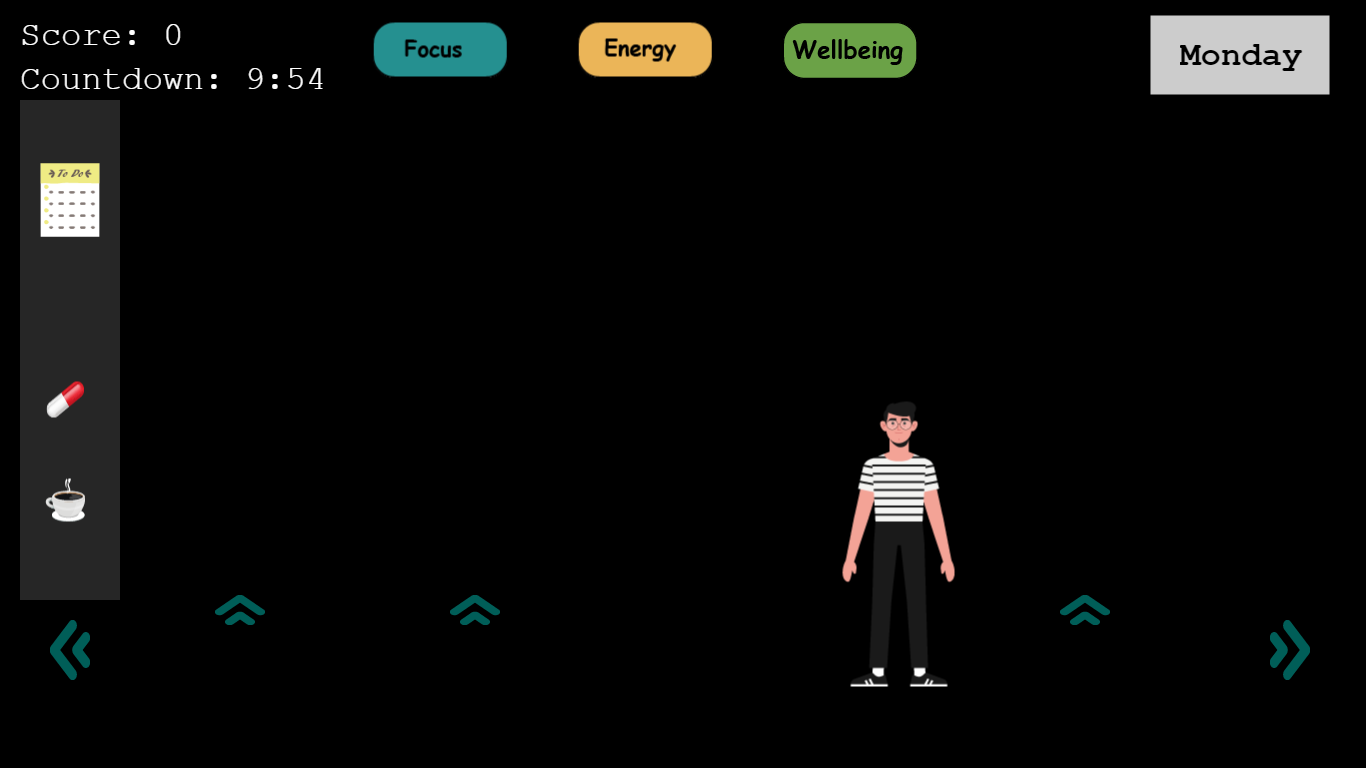
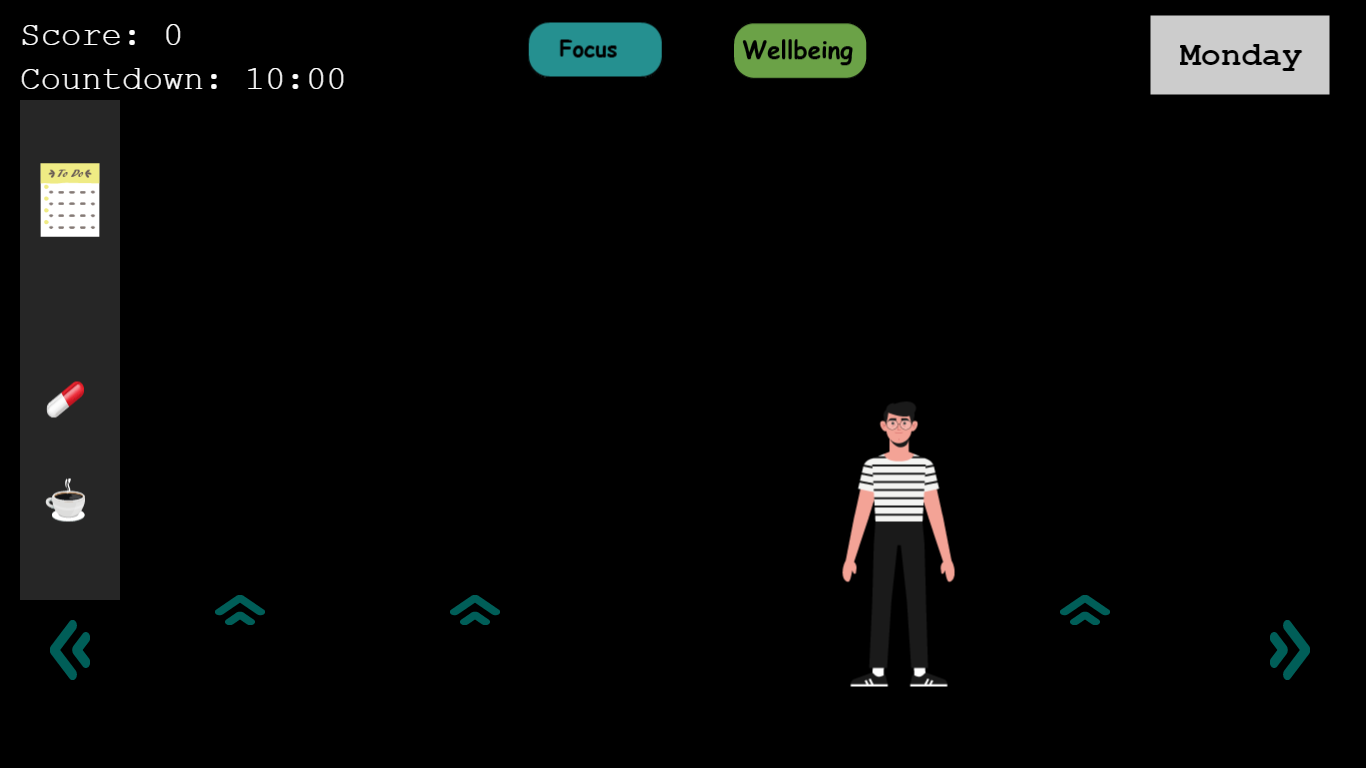
final2

Changed region(s): [[0.2767, 0.0312, 0.6764, 0.125], [0.1845, 0.0938, 0.246, 0.125]]

diff --git a/src/scenes/results.js b/src/scenes/results.js
@@ -10,6 +10,13 @@ var scoreText;
 var scoreAnimation;
 var tween;
 var colour;
+var pokalTween;
+var q;
+var qText1;
+var qText2;
+var fav;
+var fav2;
+var qTexts;
 
 export default class results extends Focus_scene {
   constructor() {
@@ -22,6 +29,7 @@ export default class results extends Focus_scene {
   create() {
     pointer = this.input.activePointer;
     achievements = [];
+    qTexts=[];
     super.create();
     this.add.image(683, 384, "graduation").setDepth(3000);
     this.layer = this.add
@@ -30,6 +38,13 @@ export default class results extends Focus_scene {
       .fillRect(0, 0, 1366, 768)
       .setDepth(3100);
     //this.add.image(300, 384, "pokal").setScale(0.8).setDepth(3200);
+    fav = this.add.image(160, 606, "favicon").setScale(1.5).setDepth(3200).setVisible(false);
+    fav2 = this.add
+      .image(157, 282, "favicon")
+      .setScale(1.5)
+      .setDepth(3200)
+      .setVisible(false);
+
     scoreText = this.add
       .text(320, 20, "Your score: " + sv, {
         fontFamily: "Arial",
@@ -59,6 +74,7 @@ export default class results extends Focus_scene {
     this.generateText(50, 665, "The Golden Battery");
     this.generateQuestionmark(112, 580, 100, 60, 0);
     this.generateQuestionmark(116, 236, 100, 100, 20);
+ 
     
   }
   generateFrame(x, y, width, height, fillStyle = 0x000000) {
@@ -83,20 +99,34 @@ export default class results extends Focus_scene {
   }
 
   generateQuestionmark(x, y, width, height, plus) {
-    this.q = this.add
+    q = this.add
       .graphics()
       .fillStyle(0x303030, 0.8)
       .fillRect(x, y, width, height)
       .lineStyle(4, 0x000000, 1.0)
       .strokeRect(x, y, width, height)
-      .setDepth(3100);
-    this.add
-      .text(x + 37, y+10+plus, "?", {
-        fontFamily: "Arial",
-        fontSize: "40px",
-        color: "#39d179", //"#005e58",
-      })
-      .setDepth(3200);
+      .setDepth(3100);  
+      if (x == 112) {
+        qText1 = this.add
+          .text(x + 37, y + 10+plus, "?", {
+            fontFamily: "Arial",
+            fontSize: "40px",
+            color: "#39d179",
+          })
+          .setDepth(3300);
+          qTexts.push(qText1); 
+      }
+      if (x == 116) {
+        qText2 = this.add
+          .text(x + 37, y + 10+plus, "?", {
+            fontFamily: "Arial",
+            fontSize: "40px",
+            color: "#39d179",
+          })
+          .setDepth(3300);
+          qTexts.push(qText2); 
+      }   
+     
   }
   makeFinalInfo() {
     if (sv == 100) {
@@ -128,18 +158,45 @@ export default class results extends Focus_scene {
       })
       .setDepth(3200);
   }
-  showAchievements(image, scale, visible) {
+  showAchievements(image, scale, visible,x,y,Scale,fav) {
     item = this.add
       .image(725, 430, image)
       .setScale(scale)
       .setDepth(3200)
       .setVisible(visible);
-    achievements.push(item);
+    
     if (this.firstUpdate != 1) {
       this.updateScore(50);
       this.firstUpdate = 1;
     }
+    this.tweens.add({
+        targets: item,
+        x:x,
+        y: y,
+        scale: Scale,
+        ease: "Linear",
+        duration: 1000,
+        repeat: 0,
+        onComplete: function () {
+          //if all comorbidities
+          //if score
+          if(fav=="fav1"){
+          item.setVisible(false); 
+          qTexts[1].setVisible(false);
+          //fav.setVisible(true);
+          }
+          if(fav=="fav2"){
+          item.setVisible(false); 
+          qTexts[0].setVisible(false);
+          //fav2.setVisible(true);
+          }
+        },
+        });
+    //achievements.push(item);
+  
+    
   }
+
   updateScore(n) {
     scoreAnimation = this.add
       .text(1200, 400, "+" + n, {
@@ -155,6 +212,7 @@ export default class results extends Focus_scene {
       targets: scoreAnimation,
       x: 1010,
       y: 28,
+      scale: 0.2,
       ease: "Linear",
       duration: 1000,
       repeat: 0,
@@ -169,8 +227,9 @@ export default class results extends Focus_scene {
     //super.update()
 
     if (this.executedAchievement != 1) {
-      this.showAchievements("pokal", 1.2, true);
-      this.showAchievements("batterySaver", 3, false);
+
+      
+      
 
       this.timedEvent = this.time.addEvent({
         delay: 3000,
@@ -179,19 +238,23 @@ export default class results extends Focus_scene {
         repeat: 2,
       });
       function moveMe() {
-        console.log(this.timedEvent);
+        
+        
         if (this.timedEvent.repeatCount == 1) {
-          this.q.setVisible(false);
+          this.showAchievements("pokal", 1.2, true, 165, 300, 0.5,"fav1");
+          /*this.q.setVisible(false);
           achievements[0].x = 165;
           achievements[0].y = 300;
           achievements[0].setScale(0.5);
           achievements[1].setVisible(true);
-          this.updateScore(50);
+          this.updateScore(50);*/
         }
         if (this.timedEvent.repeatCount == 0) {
-          achievements[1].x = 165;
+          this.showAchievements("batterySaver", 3, true, 165, 605, 1,"fav2");
+          console.log("moveMe");
+          /*achievements[1].x = 165;
           achievements[1].y = 605;
-          achievements[1].setScale(1);
+          achievements[1].setScale(1);*/
         }
       }
       this.executedAchievement = 1;

diff --git a/src/focus_scene.js b/src/focus_scene.js
@@ -361,7 +361,7 @@ export default class Focus_scene extends Phaser.Scene {
       this.draggable1.on("pointerover", () => {
         if (this.draggable1.dragged == 0 && this.draggable1.x <= 70) {
           this.t =
-            "Coffee can help you to recharge your focus and energy battery a bit.";
+            "Coffee can help you to recharge your focus battery a bit.";
 
           this.pop1 = new PopupPlugin(
             this,
@@ -475,7 +475,7 @@ export default class Focus_scene extends Phaser.Scene {
       this.draggable2.on("pointerover", () => {
         if (this.draggable2.dragged == 0 && this.draggable2.x <= 70) {
           this.t =
-            "Medication can help you to recharge your focus and energy battery.\n" +
+            "Medication can help you to recharge your focus battery.\n" +
             "However, it might sometimes leave you depressive when it wears out.";
           this.pop2 = new PopupPlugin(
             this,
@@ -886,8 +886,6 @@ export default class Focus_scene extends Phaser.Scene {
   }
 
   collision(s1, s2) {
-    console.log(s1.getBounds().x)
-    console.log(s1.x - s1.getBounds().width / 2);
     let r1 = [
       s1.x + s1.getBounds().width / 2,
       s1.x - s1.getBounds().width / 2,
@@ -949,6 +947,7 @@ export default class Focus_scene extends Phaser.Scene {
       targets: scoreAnimation,
       x: scoreText.x + 100,
       y: scoreText.y - 10,
+      scale:0.2,
       ease: "Linear",
       duration: 1000,
       repeat: 0,
@@ -1150,6 +1149,7 @@ export default class Focus_scene extends Phaser.Scene {
   update() {
     if (initialTime == 0) {
       this.showMessageBox();
+      this.player.setVisible(false);
       //this.sys.game.destroy(true);
       this.timedEvent = this.time.addEvent({
         delay: 2000,
@@ -1487,11 +1487,17 @@ export default class Focus_scene extends Phaser.Scene {
 
     //################# change battery on timer ##########################
     if (
+      initialTime == 550 ||
       initialTime == 500 ||
+      initialTime == 450 ||
       initialTime == 400 ||
+      initialTime == 350 ||
       initialTime == 300 ||
+      initialTime == 250 ||
       initialTime == 200 ||
-      initialTime == 100
+      initialTime == 150 ||
+      initialTime == 100 ||
+      initialTime == 50
     ) {
       this.updateB1(-1);
       this.updateB2(-1);

diff --git a/src/scenes/intermediate.js b/src/scenes/intermediate.js
@@ -73,7 +73,7 @@ export default class intermediate extends Phaser.Scene {
     );
     this.instructions.setText(this.instructionsText, true);
 
-    this.qMark1 = this.add.image(643, 140, "qMark").setInteractive(); //batteries
+    this.qMark1 = this.add.image(698, 140, "qMark").setInteractive(); //batteries
     this.qMark2 = this.add.image(1233, 156, "qMark").setInteractive(); //day
     this.qMark3 = this.add.image(186, 330, "qMark").setInteractive(); //items
     this.qMark4 = this.add.image(360, 657, "qMark").setInteractive(); //arrows
@@ -96,7 +96,7 @@ export default class intermediate extends Phaser.Scene {
     this.t6 =
       "The score is your primary factor towards winning the game. Try to collect as many points as possible by solving the tasks in each room!\n\n";
     ("The countdown shows you the remaining time.\n\n");
-    this.createQMarks(this.qMark1, this.t1, 230, 300, 310, -400, "batteries");
+    this.createQMarks(this.qMark1, this.t1, 230, 300, 362, -400, "batteries");
     this.createQMarks(this.qMark2, this.t2, 90, 300, 895, -530, "monday");
     this.createQMarks(this.qMark3, this.t3, 125, 300, 230, -320, "items"); //items
     this.createQMarks(this.qMark4, this.t4, 90, 300, 220, -180, "arrows");
@@ -150,7 +150,7 @@ export default class intermediate extends Phaser.Scene {
         fontStyle: "bold",
         });
       }else if(this.lightUp == "batteries" && !this.battery1){
-        this.battery2 = this.add.image(605.5, 50, "battery_energy");
+        this.battery2 = this.add.image(605.5, 50, "battery_focus");
         this.battery3 = this.add.image(810.5, 50, "battery_efficiency");
       }else if(this.lightUp == "items" && !this.draggable1){
         this.draggable1 = this.add.image(65, 500, "cup");

diff --git a/src/scenes/preload.js b/src/scenes/preload.js
@@ -104,6 +104,7 @@ import redDirt from "../../assets/redDirt.png";
 import yellowDirt from "../../assets/yellowDirt.png";
 import greyDirt from "../../assets/greyDirt.png";
 import batterySaver from "../../assets/batterySaver.png";
+import favicon from "../../assets/favicon.png";
 
 
 export default class preload_scene extends Phaser.Scene {
@@ -216,6 +217,7 @@ export default class preload_scene extends Phaser.Scene {
           this.load.image("yellowDirt", yellowDirt),
           this.load.image("greyDirt", greyDirt),
           this.load.image("batterySaver", batterySaver),
+          this.load.image("favicon", favicon),
           this.load.spritesheet("pushup", pushup, {
             frameWidth: 568,
             frameHeight: 238,

diff --git a/src/scenes/focus3(livingRoom).js b/src/scenes/focus3(livingRoom).js
@@ -115,10 +115,15 @@ export default class Focus3 extends Focus_scene {
     });
   }
   onEvent() {}
-  updateBatteries() {
+  updateBatteries(b2,b3) {
     super.updateB1(-2);
     super.updateB2(-2);
     super.updateB3(-2);
+    if(b2){
+      super.updateB2(b2);
+    }if(b3){
+      super.updateB3(b3);
+    }
   }
 
   update() {
@@ -203,7 +208,7 @@ export default class Focus3 extends Focus_scene {
         if (layer) {
           layer.setVisible(false);
           sleep2.setVisible(false);
-          this.updateBatteries();
+          this.updateBatteries("7","13");
         }
         for (var i = 0; i < this.sleepObjects.length; i++) {
           this.sleepObjects[i].setVisible(false);

diff --git a/src/scenes/focus6.js b/src/scenes/focus6.js
@@ -526,7 +526,7 @@ export default class Focus6 extends Focus_scene {
             }
           }
         }
-        executed = 1;
+        executed = 1; 
       };
     }
 
